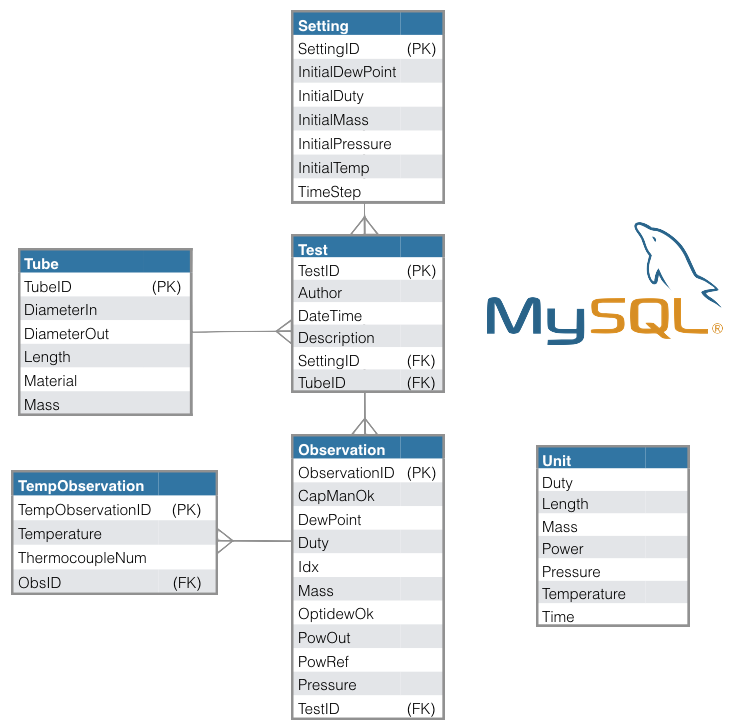
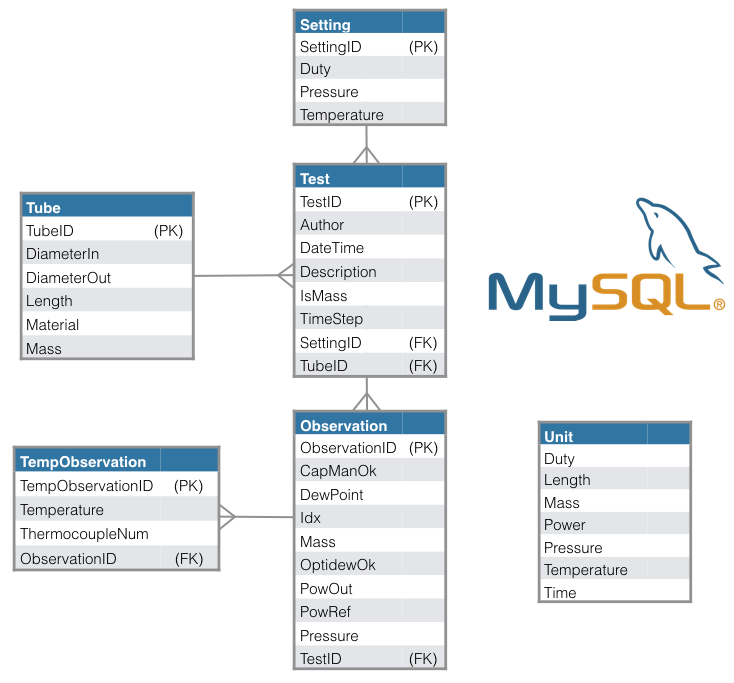
Updated Const and Schema Image.
Simple PEP 8 work on const and updated image for schema.

Changed region(s): [[0.0, 0.0, 0.6294, 1.0], [0.7193, 0.5842, 0.9591, 0.8917], [0.6594, 0.2767, 0.9891, 0.4919]]

diff --git a/chamber/const.py b/chamber/const.py
@@ -1,7 +1,7 @@
 """Constants for the UCSD Chamber Experiment."""
 from datetime import datetime
 from decimal import Decimal
-from math import log, sqrt
+from math import log, sqrt, pi
 from os import getcwd
 
 import pytz
@@ -45,7 +45,7 @@ H_OUT_TUBE = 5.129e-2    # 5.129 cm        [X]
 H_TUBE_BASE = 5.57e-3    # 5.57 mm         [X]
 
 # Gaussian Beam Constants
-HWHM_COEFF_W = sqrt(2*log(2))/2    # 0.589 [X]
+HWHM_COEFF_W = sqrt(2 * log(2)) / 2    # 0.589 [X]
 
 
 # CONSTANTS FOR water.py
@@ -291,3 +291,8 @@ GET_AVG_TEMP = ("SELECT AVG(Temperature) FROM TempObservation AS Temp INNER JOIN
                 "Obs.TestID=Test.TestID WHERE Test.TestID={} GROUP BY Obs.ObservationID")
 
 TUBE_RADIUS = 0.015    # [m]
+TUBE_AREA = pi * pow(TUBE_RADIUS, 2)
+TUBE_CIRCUM = 2 * pi * TUBE_RADIUS
+
+# Radiative Properties
+SIGMA = 5.670367e-8
